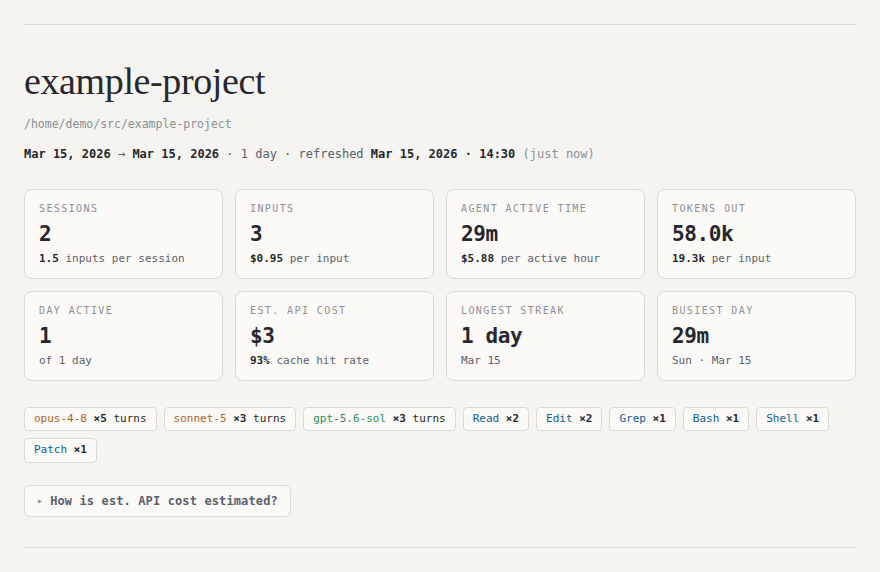
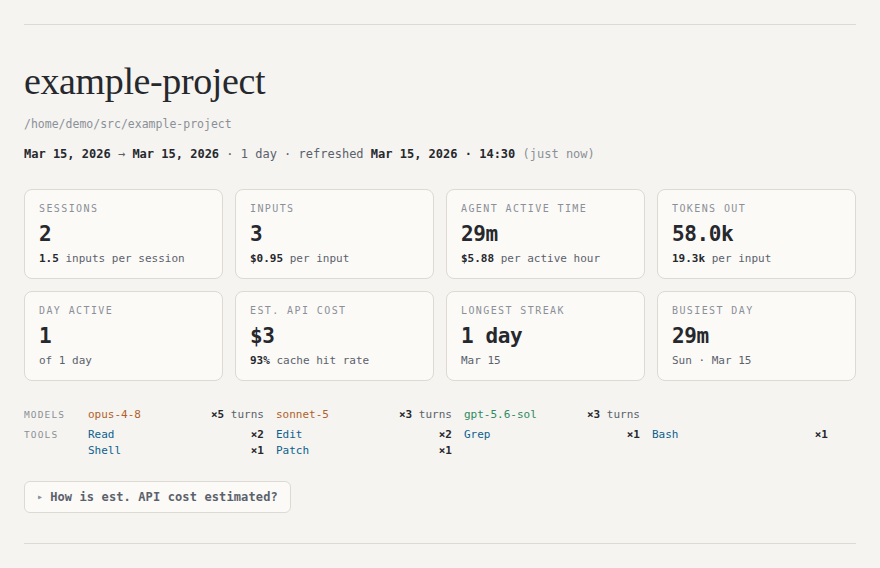
Show model turns and tool counts as readout lines instead of badges
The bordered chips under a project page's tiles suggested something to
click. The models, tools, and parser note are now lines in the usage
readout's form: a label column and fixed-width cells with the name on
the left and the count on the right, wrapping in rows of the same width
so the columns stay aligned on narrow screens. The fixture test asserts
the readout markup and that no badge remains, and the project-overview
README image is regenerated.

Assisted-by: Claude Code

diff --git a/generate_site.py b/generate_site.py
@@ -1227,16 +1227,20 @@ h1{font-family:var(--serif);font-size:38px;font-weight:500;letter-spacing:-.01em
 .stat .d{margin-top:3px;font-size:11px;line-height:16px;color:var(--dim);white-space:nowrap;
   overflow:hidden;text-overflow:ellipsis}
 .stat .d b{color:var(--ink);font-weight:600}
-.meta-row{display:flex;flex-wrap:wrap;gap:7px;margin-top:26px}
-.chip{font-size:11px;padding:3px 9px;border:1px solid var(--line);border-radius:4px;
-  background:var(--panel);color:var(--dim);white-space:nowrap}
-.chip b{color:var(--ink);font-weight:600}
-.chip.model{color:var(--machine)}
-.chip.model.fam-claude{color:var(--claude)}
-.chip.model.fam-gpt{color:var(--codex)}
-.chip.model .model-turns{color:var(--ink)}
-.chip .tool-name{color:var(--machine)}
-.chip .tool-count{color:var(--ink)}
+/* model turns, tool counts, and parser notes under the tiles, in the usage readout's
+   form (a label column and fixed-width cells, name left and count right) rather
+   than badges, which suggested something to click. Cells wrap in rows of the same
+   width, so the columns stay aligned. */
+.meta{margin-top:26px;font-size:11px;line-height:16px;color:var(--dim)}
+.meta-line{display:flex;align-items:flex-start}
+.meta-line+.meta-line{margin-top:4px}
+.meta .uro-k{flex:0 0 64px}
+.meta-cells{display:flex;flex-wrap:wrap;gap:0 12px;min-width:0}
+.meta .ui{margin-right:0}
+.meta b{color:var(--ink);font-weight:600}
+.meta .mdl,.meta .tn{color:var(--machine)}
+.meta .mdl.fam-claude{color:var(--claude)}
+.meta .mdl.fam-gpt{color:var(--codex)}
 .tooltag{display:inline-block;font-size:9px;letter-spacing:.12em;text-transform:uppercase;
   padding:1px 6px;border:1px solid var(--line);border-radius:4px;color:var(--dim)}
 .tooltag.t-claude{color:var(--claude);border-color:var(--claude)}
@@ -2304,25 +2308,35 @@ def render(tl, home=None, refreshed_at=None):
     stats_html = _stat_cards_html(stat_cards)
     usage_html = _usage_html(series) if series else ""
 
-    chips = []
-    for m in real_models:
-        fam = model_family(m)
-        cls = f"chip model fam-{fam}" if fam else "chip model"
-        model_turns = s["models"][m]
-        chips.append(
-            f'<span class="{cls}" '
-            f'title="Assistant turns attributed to this model; not sessions">'
-            f'{esc(clean_model(m))} <span class="model-turns">'
-            f'<b>&times;{model_turns}</b> turn{_s(model_turns)}</span></span>')
-    for k, v in list(s["tools"].items())[:6]:
-        chips.append(f'<span class="chip"><span class="tool-name">{esc(k)}</span> '
-                     f'<b class="tool-count">&times;{v}</b></span>')
+    # models, tools, and parser notes as readout lines: a label, then one
+    # fixed-width cell per item with the name left and the count right
+    def meta_line(label, cells, title=None):
+        attr = f' title="{esc(title)}"' if title else ""
+        return (f'<div class="meta-line"{attr}><span class="uro-k">{label}</span>'
+                f'<span class="meta-cells">{"".join(cells)}</span></div>')
+
+    meta_lines = []
+    if real_models:
+        cells = []
+        for m in real_models:
+            model_turns = s["models"][m]
+            cells.append(f'<span class="ui">{_model_span(m)}<span>'
+                         f'<b>&times;{model_turns}</b> turn{_s(model_turns)}</span></span>')
+        meta_lines.append(meta_line(
+            "models", cells,
+            "Assistant turns attributed to this model; not sessions"))
+    if s["tools"]:
+        cells = [f'<span class="ui"><span class="tn">{esc(k)}</span>'
+                 f'<span><b>&times;{v}</b></span></span>'
+                 for k, v in list(s["tools"].items())[:6]]
+        meta_lines.append(meta_line("tools", cells))
     diagnostic_count = len(tl.get("diagnostics") or [])
     if diagnostic_count:
-        chips.append(
-            f'<span class="chip" title="The parser skipped malformed or non-UTF-8 '
-            f'transcript records"><b>{diagnostic_count}</b> skipped transcript '
-            f'record{_s(diagnostic_count)}</span>')
+        meta_lines.append(meta_line(
+            "parser",
+            [f'<span><b>{diagnostic_count}</b> skipped transcript '
+             f'record{_s(diagnostic_count)}</span>'],
+            "The parser skipped malformed or non-UTF-8 transcript records"))
 
     rendered_sessions = [session for session in tl["sessions"]
                          if session["id"] in sess_agg]
@@ -2656,7 +2670,7 @@ def render(tl, home=None, refreshed_at=None):
         range=range_html,
         usage=usage_html,
         stats=stats_html,
-        chips="".join(chips),
+        meta="".join(meta_lines),
         minimap=minimap, topbar=topbar,
         timeline="".join(nodes),
         last_activity=esc(fmt_ts(last)),
@@ -2838,7 +2852,7 @@ PAGE = """<!doctype html><html lang="en"><head>
   <div class="range">{range}</div>
   {usage}
   <div class="stats">{stats}</div>
-  <div class="meta-row">{chips}</div>
+  <div class="meta">{meta}</div>
   {costnote}
 </header>
 <div class="log">{timeline}</div>

diff --git a/tests/test_transcript_fixtures.py b/tests/test_transcript_fixtures.py
@@ -250,13 +250,16 @@ class TranscriptFixtureTests(unittest.TestCase):
         self.assertIn(
             'title="Assistant turns attributed to this model; not sessions"',
             page)
-        # The fixture has one Shell call, so both aggregate and per-turn tool
-        # readouts exercise the name-before-count × syntax and shared color.
+        # The hero's models and tools are readout lines (a label and fixed
+        # cells with the name left and the count right), not badges. The
+        # fixture has one Shell call, so both the hero cell and the per-turn
+        # tool readout exercise the name-before-count × syntax and shared color.
+        self.assertIn('<span class="uro-k">models</span>', page)
+        self.assertIn('<span><b>&times;3</b> turns</span></span>', page)
         self.assertIn(
-            '<span class="model-turns"><b>&times;3</b> turns</span></span>', page)
-        self.assertIn(
-            '<span class="chip"><span class="tool-name">Shell</span> '
-            '<b class="tool-count">&times;1</b></span>', page)
+            '<span class="ui"><span class="tn">Shell</span>'
+            '<span><b>&times;1</b></span></span>', page)
+        self.assertNotIn('class="chip"', page)
         self.assertIn(
             '<span><span class="tn">Shell</span> '
             '<span class="tool-count">&times;1</span></span>', page)

diff --git a/README.md b/README.md
@@ -14,9 +14,9 @@ Each project page shows prompts and the assistant activity that followed them,
 including tool use, changed files, token usage, [recorded or estimated active
 time](#usage-and-api-cost-accounting), and estimated API cost.
 
-The model chips on a project page show assistant-turn counts attributed to each
-model; those numbers are not session counts. Branch names remain parser metadata
-but are not displayed as page badges.
+The models line under a project page's tiles shows assistant-turn counts
+attributed to each model; those numbers are not session counts. Branch names
+remain parser metadata but are not displayed as page badges.
 
 <p align="center"><img src="docs/images/timeline-entry.png" alt="Session content with a prompt, token usage, files, and tool calls" width="720"></p>
 
@@ -368,7 +368,7 @@ session's.
 
 The shared page is meant for a trusted colleague. It keeps every field of the
 unit: the prompt in full, response excerpts, the tool log with its arguments,
-changed files, model chips, token and cost figures, timestamps, and the
+changed files, model names, token and cost figures, timestamps, and the
 project's name and path. It drops only what works nowhere but inside the
 project page: the session id in the header and in a fork tag's tooltip, the
 anchor ids and links, the timeline marks, and the share controls. Review the
